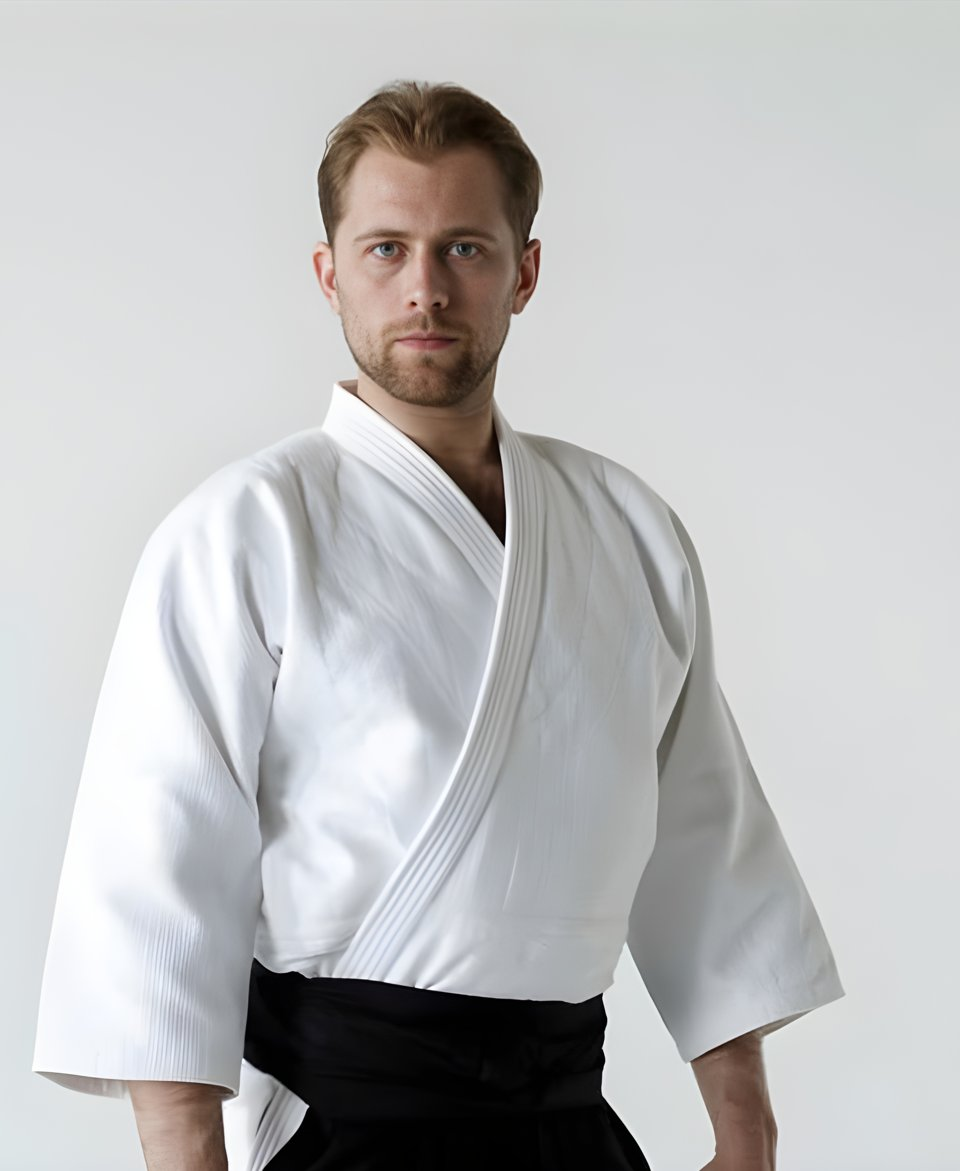
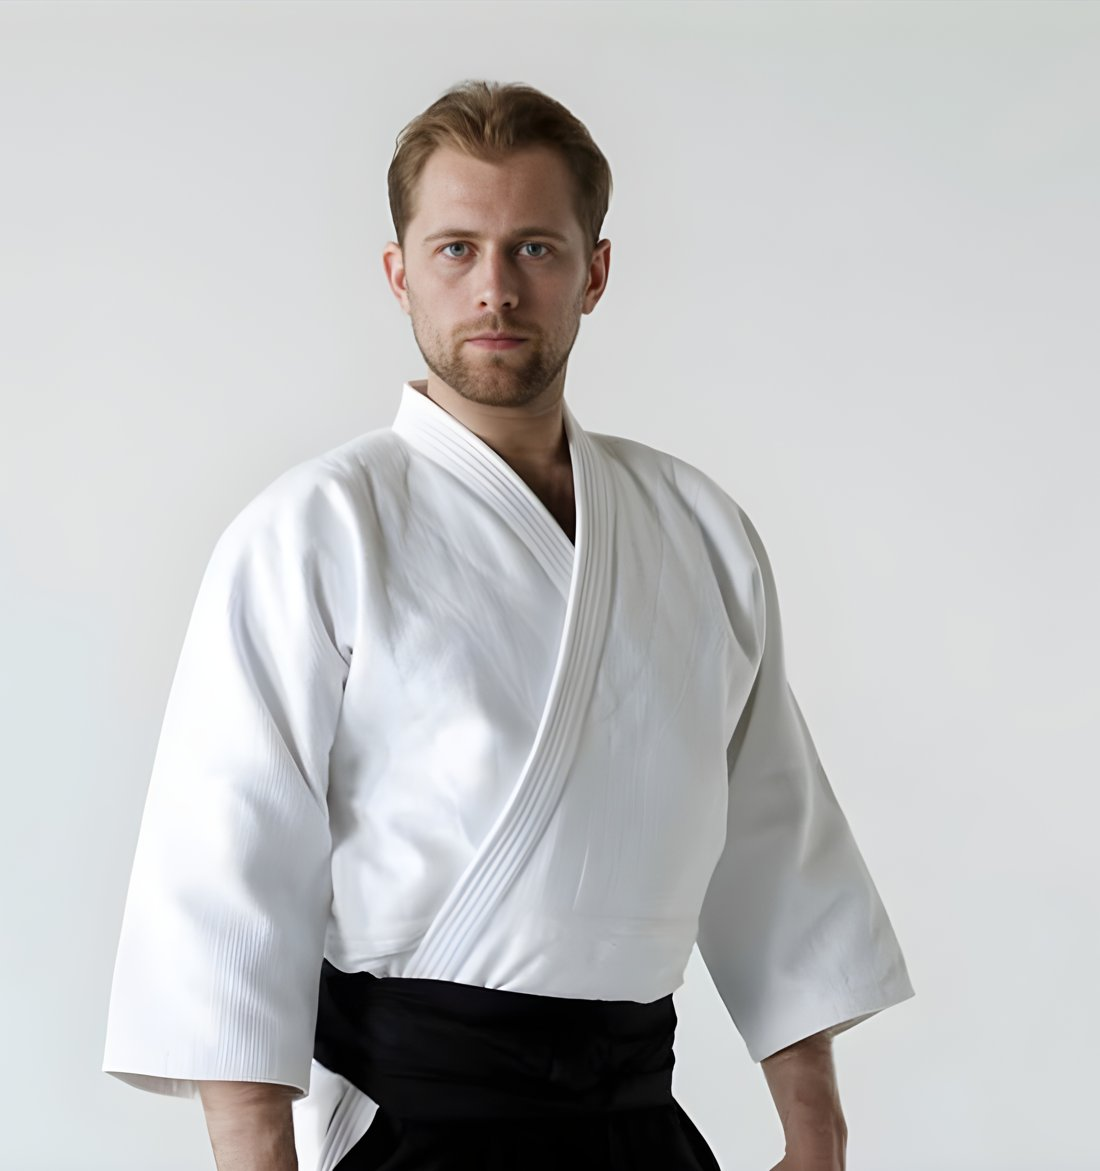
Био: перекадровка обложки по верху, полные названия федераций в регалиях, единая высота фото (4:3), мобильная адаптация

Changed region(s): [[0.0312, 0.0615, 0.875, 1.0], [0.5, 0.0922, 0.5625, 0.2767], [0.4062, 0.5841, 0.4375, 0.6149]]

diff --git a/site/ivan-egorov/ivan-egorov.css b/site/ivan-egorov/ivan-egorov.css
@@ -20,7 +20,7 @@ h1 em,h2 em{color:var(--lime);font-style:normal}
 .ie-regalia li{border:1px solid var(--line);border-radius:999px;padding:12px 20px;font-size:15px;font-weight:700;color:#d5d9d2}
 .ie-regalia li b{color:var(--paper)}
 .ie-hero-photo{position:relative;margin:0;border-radius:26px;overflow:hidden;height:560px;border:1px solid var(--line)}
-.ie-hero-photo img{width:100%;height:100%;object-fit:cover;object-position:50% 20%;display:block}
+.ie-hero-photo img{width:100%;height:100%;object-fit:cover;object-position:50% 0%;display:block}
 .ie-hero-photo figcaption{position:absolute;left:14px;bottom:14px;background:#090b0ad9;padding:9px 14px;border-radius:999px;font-size:10px;font-weight:800;letter-spacing:1.4px;text-transform:uppercase;color:var(--lime)}
 
 /* Секции */
@@ -33,7 +33,7 @@ section{scroll-margin-top:90px}
 /* Фото-ряды */
 .ie-photos{display:grid;gap:16px;margin:34px 0 0}
 .ie-photos figcaption{font-size:14px;color:var(--muted);margin-top:10px;line-height:1.4}
-.ie-photos img{width:100%;display:block;border-radius:16px;border:1px solid var(--line);object-fit:cover}
+.ie-photos img{width:100%;height:auto;aspect-ratio:4/3;object-fit:cover;display:block;border-radius:16px;border:1px solid var(--line)}
 .cols-3{grid-template-columns:1fr 1fr 1fr}
 .cols-2{grid-template-columns:1fr 1fr}
 .ie-photo-card{margin:0;transition:transform .3s ease}
@@ -56,6 +56,8 @@ section{scroll-margin-top:90px}
 /* Наставничество: список + фото справа */
 .ie-mentor-grid{display:grid;grid-template-columns:1.12fr .88fr;gap:52px;align-items:start}
 .ie-mentor-grid .ie-list{margin-top:0}
+
+.ie-mentor-photo img{width:100%;aspect-ratio:4/3;object-fit:cover;object-position:50% 18%;display:block;border-radius:16px;border:1px solid var(--line)}
 
 /* Контакты */
 .ie-contact{background:var(--lime);color:#141414;padding:80px 0}
@@ -85,4 +87,12 @@ footer.ie-footer a:hover{color:var(--lime)}
 @media(max-width:560px){
   .cols-3,.cols-2{grid-template-columns:1fr}
   .ie-quote{padding:20px}
+  .ie-regalia li{font-size:13.5px;padding:10px 16px}
+  .ie-hero-photo{height:330px}
+  .ie-hero h1{font-size:44px}
+  .ie-sec h2{font-size:32px}
+  .ie-photos img{aspect-ratio:4/3}
+  .ie-mentor-photo img{aspect-ratio:4/3}
+  .ie-contact .contact-button{width:100%;justify-content:center}
+  footer.ie-footer{flex-direction:column;gap:8px}
 }

diff --git a/site/ivan-egorov/index.html b/site/ivan-egorov/index.html
@@ -17,7 +17,7 @@
 <link rel="icon" type="image/png" sizes="32x32" href="../favicon-v5-32.png"/>
 <link rel="icon" type="image/png" sizes="192x192" href="../favicon-v5-192.png"/>
 <link rel="apple-touch-icon" href="../apple-touch-icon-v5.png"/>
-<link rel="stylesheet" href="./ivan-egorov.css?v=3"/>
+<link rel="stylesheet" href="./ivan-egorov.css?v=4"/>
 <link rel="stylesheet" href="../fx.css?v=1"/>
 <title>Иван Егоров — биография | Спорт как искусство</title>
 <script type="application/ld+json">
@@ -79,8 +79,8 @@
         <ul class="ie-regalia">
           <li><b>5 дан</b> Тэн Шин айкидо</li>
           <li>Мастер спорта России</li>
-          <li>Главный тренер ФАР</li>
-          <li>Вице-президент ФАЧР</li>
+          <li>Главный тренер Федерации айкидо России</li>
+          <li>Вице-президент Федерации Айкидо Чеченской Республики</li>
           <li>Ученик Стивена Сигала</li>
         </ul>
       </div>
@@ -181,7 +181,7 @@
           <li><b>Руководитель спортивных направлений арт-платформы New ART Flux</b></li>
           <li><b>Лекторская деятельность в Российском обществе «Знание»</b></li>
         </ul>
-        <figure class="ie-photo-card" style="margin:0"><img src="../images/egorov/nastavnik-vystup.jpg" alt="Иван Егоров с лекцией на форуме «Здоровье нации»" loading="lazy"/><figcaption>Лекторий «Здоровье нации»</figcaption></figure>
+        <figure class="ie-photo-card ie-mentor-photo"><img src="../images/egorov/nastavnik-vystup.jpg" alt="Иван Егоров с лекцией на форуме «Здоровье нации»" loading="lazy"/><figcaption>Лекторий «Здоровье нации»</figcaption></figure>
       </div>
       <div class="ie-photos cols-2" style="margin-top:22px">
         <figure class="ie-photo-card"><img src="../images/egorov/trenirovka-deti-1.jpg" alt="Иван Егоров ведёт тренировку с ребёнком на природе" loading="lazy"/><figcaption>Тренировка с детьми</figcaption></figure>
